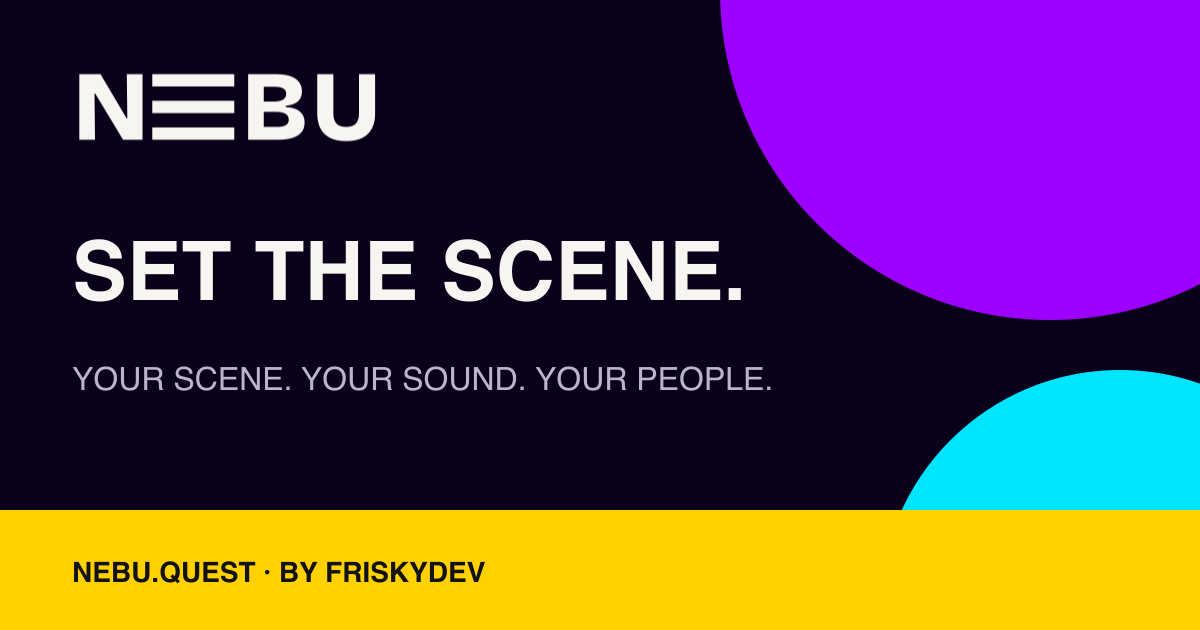
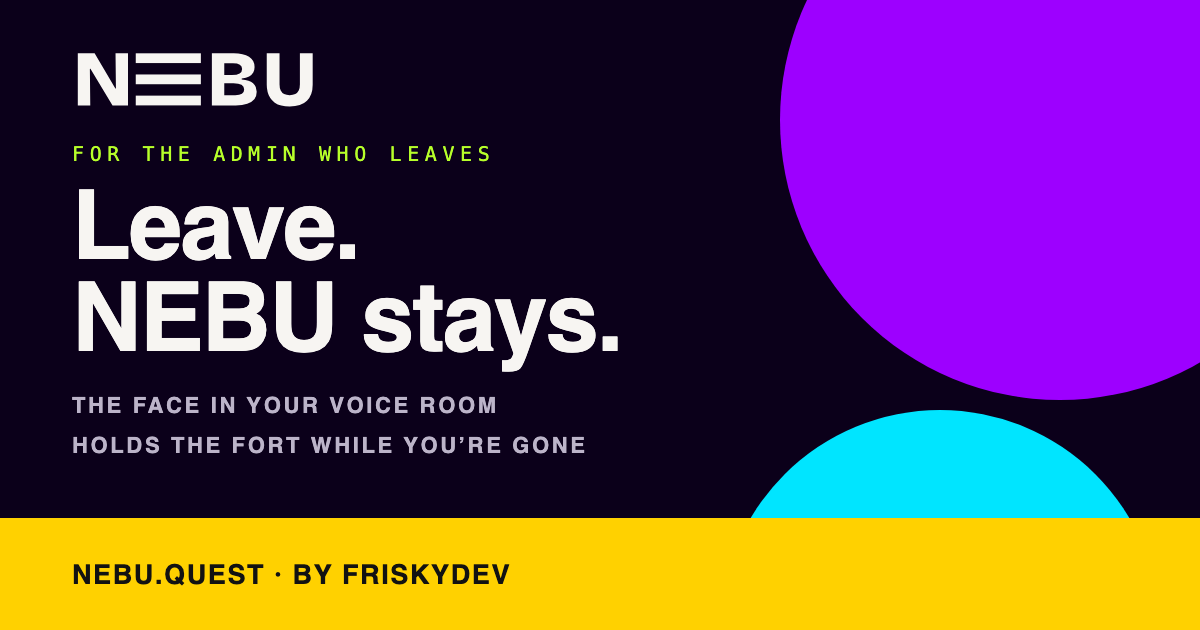
Positioning: Leave. NEBU stays. — ported onto program-stage base (#6)
* Positioning: Leave. NEBU stays. — ported onto program-stage base

Streamer is the showcase, buyer is the admin who leaves.
Hero/meta/nav/tabs Face-Lineup-Door-Recap, use-cases,
Prepare→Leave→Recap, 2 new FAQs, closing; social card refreshed.
Keeps /studio/ no-sign-in architecture; zero vc.friskydev refs.
verify.sh 16/16, hero eyeballed desktop+mobile.

* fix: align landing section labels and clarify downloading recordings before closing the studio

* Match section labels to the nav and the recording FAQ.

The room and Who it's for now name the feature and use-case landmarks, and the teacher/podcaster card says to download the take before closing the studio.

---------

diff --git a/sections.html b/sections.html
@@ -15,52 +15,52 @@
   <symbol id="layers" viewBox="0 0 32 32"><path d="m16 4 13 7-13 7L3 11 16 4ZM3 17l13 7 13-7M3 23l13 7 13-7"/></symbol>
 </defs></svg>
 
-<div class="signal-strip" aria-hidden="true"><div class="marquee"><div class="marquee-track"><div class="marquee-group"><span>YOUR CAMERA</span><svg><use href="#star"/></svg><span>YOUR MUSIC</span><svg><use href="#star"/></svg><span>YOUR ROOM</span><svg><use href="#star"/></svg><span>YOUR NEBU</span><svg><use href="#star"/></svg></div><div class="marquee-group"><span>YOUR CAMERA</span><svg><use href="#star"/></svg><span>YOUR MUSIC</span><svg><use href="#star"/></svg><span>YOUR ROOM</span><svg><use href="#star"/></svg><span>YOUR NEBU</span><svg><use href="#star"/></svg></div></div></div></div>
+<div class="signal-strip" aria-hidden="true"><div class="marquee"><div class="marquee-track"><div class="marquee-group"><span>LEAVE. NEBU STAYS</span><svg><use href="#star"/></svg><span>THE FACE IN THE ROOM</span><svg><use href="#star"/></svg><span>VIDEOS KEEP PLAYING</span><svg><use href="#star"/></svg><span>INVITES KEEP WORKING</span><svg><use href="#star"/></svg></div><div class="marquee-group"><span>LEAVE. NEBU STAYS</span><svg><use href="#star"/></svg><span>THE FACE IN THE ROOM</span><svg><use href="#star"/></svg><span>VIDEOS KEEP PLAYING</span><svg><use href="#star"/></svg><span>INVITES KEEP WORKING</span><svg><use href="#star"/></svg></div></div></div></div>
 
 <section class="studio-section section container" id="features" aria-labelledby="features-title">
-  <div class="section-heading"><div><p class="eyebrow">01 / MEET YOUR STUDIO</p><h2 id="features-title">All the parts.<br><span class="muted-heading">One place to play.</span></h2></div><p>Bring your picture, sound and people together. Check your scene before you share it.</p></div>
+  <div class="section-heading"><div><p class="eyebrow">01 / WHAT NEBU HOLDS</p><h2 id="features-title">Leave.<br><span class="muted-heading">NEBU stays.</span></h2></div><p>Admin installs in two minutes and can walk away. NEBU holds the room, runs the video lineup, keeps invites working, and records.</p></div>
   <div class="feature-tabs" role="tablist" aria-label="Explore the studio">
-    <button class="feature-tab tab-yellow" id="tab-picture" type="button" role="tab" aria-selected="true" aria-controls="feature-panel" data-feature="picture"><svg aria-hidden="true"><use href="#camera"/></svg><span>Studio<small>Find your frame.</small></span><svg class="tab-arrow" aria-hidden="true"><use href="#external"/></svg></button>
-    <button class="feature-tab tab-violet" id="tab-sound" type="button" role="tab" aria-selected="false" aria-controls="feature-panel" tabindex="-1" data-feature="sound"><svg aria-hidden="true"><use href="#sound"/></svg><span>Sound<small>Set the mood.</small></span><svg class="tab-arrow" aria-hidden="true"><use href="#external"/></svg></button>
-    <button class="feature-tab tab-cyan" id="tab-people" type="button" role="tab" aria-selected="false" aria-controls="feature-panel" tabindex="-1" data-feature="people"><svg aria-hidden="true"><use href="#people"/></svg><span>Rooms<small>Bring people in.</small></span><svg class="tab-arrow" aria-hidden="true"><use href="#external"/></svg></button>
-    <button class="feature-tab tab-paper" id="tab-record" type="button" role="tab" aria-selected="false" aria-controls="feature-panel" tabindex="-1" data-feature="record"><svg aria-hidden="true"><use href="#record"/></svg><span>Record<small>Keep the good bits.</small></span><svg class="tab-arrow" aria-hidden="true"><use href="#external"/></svg></button>
+    <button class="feature-tab tab-yellow" id="tab-picture" type="button" role="tab" aria-selected="true" aria-controls="feature-panel" data-feature="picture"><svg aria-hidden="true"><use href="#camera"/></svg><span>Face<small>Be the showcase.</small></span><svg class="tab-arrow" aria-hidden="true"><use href="#external"/></svg></button>
+    <button class="feature-tab tab-violet" id="tab-sound" type="button" role="tab" aria-selected="false" aria-controls="feature-panel" tabindex="-1" data-feature="sound"><svg aria-hidden="true"><use href="#sound"/></svg><span>Lineup<small>Runs while you are out.</small></span><svg class="tab-arrow" aria-hidden="true"><use href="#external"/></svg></button>
+    <button class="feature-tab tab-cyan" id="tab-people" type="button" role="tab" aria-selected="false" aria-controls="feature-panel" tabindex="-1" data-feature="people"><svg aria-hidden="true"><use href="#people"/></svg><span>Door<small>Stays open.</small></span><svg class="tab-arrow" aria-hidden="true"><use href="#external"/></svg></button>
+    <button class="feature-tab tab-paper" id="tab-record" type="button" role="tab" aria-selected="false" aria-controls="feature-panel" tabindex="-1" data-feature="record"><svg aria-hidden="true"><use href="#record"/></svg><span>Recap<small>Come back to it.</small></span><svg class="tab-arrow" aria-hidden="true"><use href="#external"/></svg></button>
   </div>
 
   <div class="feature-panel" id="feature-panel" role="tabpanel" aria-labelledby="tab-picture" tabindex="0" data-mode="picture">
-    <div class="feature-copy"><p class="eyebrow" id="feature-kicker">PICTURE / FIND YOUR FRAME</p><h3 id="feature-title">You call<br>the shots.</h3><p id="feature-description">Choose your camera, share your screen, or line up a video. Preview your scene before it reaches the room.</p><ul class="feature-points" id="feature-points"><li>Camera and microphone setup</li><li>Screen sharing and video rundown</li><li>Local preview before sharing</li></ul><a class="text-link" href="/studio/" data-studio>Make it yours <svg class="icon" aria-hidden="true"><use href="#arrow"/></svg></a></div>
+    <div class="feature-copy"><p class="eyebrow" id="feature-kicker">FACE / THE SHOWCASE</p><h3 id="feature-title">The face<br>in the room.</h3><p id="feature-description">You are the showcase: camera, screen, or prepared video, previewed before it reaches the room. Set the scene once — it stays up when you step out.</p><ul class="feature-points" id="feature-points"><li>Camera, screen, or prepared video</li><li>Local preview before sharing</li><li>Shareable overlay via OBS or Boom</li></ul><a class="text-link" href="/studio/" data-studio>Make it yours <svg class="icon" aria-hidden="true"><use href="#arrow"/></svg></a></div>
     <div class="preview-shell">
       <div class="preview-top"><span><span class="tiny-dot"></span> NEBU / SCENE EXPLORER</span><span>ILLUSTRATED PREVIEW</span></div>
       <div class="preview-scene">
         <div class="preview-grid"></div>
-        <div class="preview-art"><span class="preview-disc"></span><svg class="preview-star" aria-hidden="true"><use href="#star"/></svg><img src="assets/nebu-mark-yellow.svg" alt="" width="180" height="144"><span class="preview-caption" id="preview-caption">YOUR POINT<br>OF VIEW.</span></div>
-        <div class="preview-sound" aria-hidden="true"><div class="equalizer"><i></i><i></i><i></i><i></i><i></i><i></i><i></i><i></i><i></i><i></i><i></i><i></i></div><span>FIND YOUR<br>FREQUENCY.</span></div>
+        <div class="preview-art"><span class="preview-disc"></span><svg class="preview-star" aria-hidden="true"><use href="#star"/></svg><img src="assets/nebu-mark-yellow.svg" alt="" width="180" height="144"><span class="preview-caption" id="preview-caption">THE FACE<br>IN THE ROOM.</span></div>
+        <div class="preview-sound" aria-hidden="true"><div class="equalizer"><i></i><i></i><i></i><i></i><i></i><i></i><i></i><i></i><i></i><i></i><i></i><i></i></div><span>PLAYING WHILE<br>YOU ARE OUT.</span></div>
         <div class="preview-people" aria-hidden="true"><span>N</span><span><svg><use href="#star"/></svg></span><span><svg><use href="#sound"/></svg></span><span>YOU</span></div>
-        <div class="preview-record" aria-hidden="true"><svg><use href="#record"/></svg><span>A MOMENT.<br>YOURS TO KEEP.</span></div>
-        <div class="preview-label" id="preview-label">01 — PICTURE</div>
+        <div class="preview-record" aria-hidden="true"><svg><use href="#record"/></svg><span>THE TAPE.<br>COME BACK TO IT.</span></div>
+        <div class="preview-label" id="preview-label">01 — FACE</div>
       </div>
-      <div class="preview-bottom"><span id="preview-bottom">Prepare → Preview → Share</span><svg class="icon" aria-hidden="true"><use href="#layers"/></svg></div>
+      <div class="preview-bottom"><span id="preview-bottom">Set the scene → Show your face</span><svg class="icon" aria-hidden="true"><use href="#layers"/></svg></div>
     </div>
   </div>
-  <noscript><div class="no-script-features"><p><strong>Sound:</strong> Adjust microphone and video volume independently.</p><p><strong>Rooms:</strong> Create a room, copy an invite, and bring a small group together.</p><p><strong>Record:</strong> Capture your selected output and download the recording to your device.</p></div></noscript>
+  <noscript><div class="no-script-features"><p><strong>Lineup:</strong> Queue prepared videos and balance microphone against playback.</p><p><strong>Door:</strong> Open a room, share one invite, and let new people join while you are out.</p><p><strong>Recap:</strong> Record your selected output and download the tape to your device.</p></div></noscript>
 </section>
 
 <section class="your-scene section" id="steps" aria-labelledby="steps-title"><div class="container">
-  <div class="section-heading"><div><p class="eyebrow">02 / YOUR KIND OF LIVE</p><h2 id="steps-title">Make room<br>for your thing.</h2></div><p>A conversation worth having.<br>A video worth sharing.<br>A moment worth keeping.</p></div>
+  <div class="section-heading"><div><p class="eyebrow">02 / BUILT FOR THE ADMIN WHO LEAVES</p><h2 id="steps-title">Set it up.<br>Step out.</h2></div><p>One person holds the group. Zero desire to babysit it.<br>Two minutes to install — then the room runs itself.</p></div>
   <div class="use-cases">
-    <article class="use-case" data-reveal><div class="use-art conversation-art" aria-hidden="true"><span class="bubble bubble-one">hey, you.</span><span class="bubble bubble-two">let’s talk.</span><svg><use href="#star"/></svg></div><div class="use-copy"><span class="eyebrow">FOR THE CONVERSATIONS</span><h3>A room with<br>your people.</h3><p>Get a small group together. Share an invitation and give the conversation a place to happen.</p></div></article>
-    <article class="use-case" data-reveal><div class="use-art creative-art" aria-hidden="true"><div class="video-tile"><svg><use href="#camera"/></svg><span>YOUR TAKE</span></div><span class="creative-label">THAT’S THE ONE.</span></div><div class="use-copy"><span class="eyebrow">FOR THE THINGS YOU MAKE</span><h3>Give your ideas<br>some airtime.</h3><p>Walk through your work, line up a video, and show the room what you have in mind.</p></div></article>
-    <article class="use-case" data-reveal><div class="use-art recording-art" aria-hidden="true"><div class="record-circle"><svg><use href="#record"/></svg></div><span class="record-label">SAVE THIS FEELING</span><div class="tape-marks"></div></div><div class="use-copy"><span class="eyebrow">FOR THE GOOD MOMENTS</span><h3>Make it once.<br>Keep it close.</h3><p>Record the output you choose and save a copy on your device. Something to come back to.</p></div></article>
+    <article class="use-case" data-reveal><div class="use-art conversation-art" aria-hidden="true"><span class="bubble bubble-one">see you later.</span><span class="bubble bubble-two">nebu's got it.</span><svg><use href="#star"/></svg></div><div class="use-copy"><span class="eyebrow">FOR THE ADMIN WHO LEAVES</span><h3>Your group.<br>Held, not policed.</h3><p>You run a Telegram, Discord, or class group and you do not want to be the policeman. NEBU keeps the door open, basic order in place, and the night on record.</p></div></article>
+    <article class="use-case" data-reveal><div class="use-art creative-art" aria-hidden="true"><div class="video-tile"><svg><use href="#camera"/></svg><span>YOUR TAKE</span></div><span class="creative-label">FACE IN THE ROOM.</span></div><div class="use-copy"><span class="eyebrow">FOR THE STREAMER</span><h3>The showcase<br>with your face.</h3><p>Camera up, overlay on, videos queued. You are the vitrina — the visible one everyone gathers around, even when the admin is long gone.</p></div></article>
+    <article class="use-case" data-reveal><div class="use-art recording-art" aria-hidden="true"><div class="record-circle"><svg><use href="#record"/></svg></div><span class="record-label">THE TAPE YOU REVISIT</span><div class="tape-marks"></div></div><div class="use-copy"><span class="eyebrow">FOR THE TEACHER AND THE PODCASTER</span><h3>Class dismissed.<br>Episode kept.</h3><p>Teach the lesson or record the episode, then download the take before closing the studio. Revisit the class or edit the episode later.</p></div></article>
   </div>
 </div></section>
 
 <section class="workflow-section section container" aria-labelledby="workflow-title">
-  <div class="section-heading"><div><p class="eyebrow">03 / FROM IDEA TO SCENE</p><h2 id="workflow-title">Get into<br>your element.</h2></div><a class="button button-outline" href="/studio/" data-studio>Let’s make something <svg class="icon" aria-hidden="true"><use href="#arrow"/></svg></a></div>
+  <div class="section-heading"><div><p class="eyebrow">03 / HOW THE NIGHT GOES</p><h2 id="workflow-title">Prepare.<br>Leave. Recap.</h2></div><a class="button button-outline" href="/studio/" data-studio>Hold my room <svg class="icon" aria-hidden="true"><use href="#arrow"/></svg></a></div>
   <figure class="product-shot program-monitor" data-reveal>
-    <div class="shot-bar"><span class="tally-mini"><i></i> PROGRAM</span><span>NEBU / IN THE STUDIO</span><span>1280×720 · 30</span><span>PICTURE · SOUND · PEOPLE</span></div>
+    <div class="shot-bar"><span class="tally-mini"><i></i> PROGRAM</span><span>NEBU / HOLDING THE ROOM</span><span>1280×720 · 30</span><span>FACE · LINEUP · DOOR</span></div>
     <img src="assets/studio-shot.webp" width="1440" height="900" loading="lazy" decoding="async" alt="The NEBU studio in a browser: sources on the left, the program output in the middle with a shared page and a camera picture-in-picture plus a lower third, and the audio mixer and room controls on the right.">
     <figcaption><span>The real studio, captured in a browser with test sources.</span><a href="/studio/" data-studio>Open the studio <svg class="icon" aria-hidden="true"><use href="#arrow"/></svg></a></figcaption>
   </figure>
-  <div class="workflow"><article data-reveal><span>01</span><h3>Prepare.</h3><p>Open the studio. Choose your camera, microphone and sources.</p></article><article data-reveal><span>02</span><h3>Preview.</h3><p>Find the frame. Balance the sound. Check what you’re about to share.</p></article><article data-reveal><span>03</span><h3>Share.</h3><p>Open your room, invite your people, or record a take for later.</p></article></div>
+  <div class="workflow"><article data-reveal><span>01</span><h3>Prepare.</h3><p>Open the studio. Set the scene, queue the videos, share one invite link. Two minutes, tops.</p></article><article data-reveal><span>02</span><h3>Leave.</h3><p>Walk away. The lineup keeps playing, the door stays open, basic order holds.</p></article><article data-reveal><span>03</span><h3>Recap.</h3><p>Come back to the tape. Download the recording and see what the room got up to.</p></article></div>
 </section>
 
 <section class="faq-section section container" id="faq" data-reveal aria-labelledby="faq-title"><div class="faq-heading"><p class="eyebrow">04 / GOOD TO KNOW</p><h2 id="faq-title">Before you<br>jump in.</h2><svg class="faq-star" aria-hidden="true"><use href="#star"/></svg></div><div class="faq-list">
@@ -68,11 +68,13 @@
   <details><summary>Do I need to install anything?<span aria-hidden="true">+</span></summary><div><p>No. Open the studio in a current Chrome, Edge, Firefox or Safari and allow camera and microphone when asked. Screen sharing needs a desktop browser; on a phone you can still use your camera, mic and video files. OBS and Boom are optional and use their own software.</p></div></details>
   <details><summary>Where does “Open studio” take me?<span aria-hidden="true">+</span></summary><div><p>To <a href="/studio/">nebu.quest/studio</a>, right here. No account and no sign-in. Your sources, your mix and your recordings stay in your browser tab.</p></div></details>
   <details><summary>Can I check my scene before sharing?<span aria-hidden="true">+</span></summary><div><p>Yes. The program preview is local until you open a room. What you see there is exactly what your room receives and what a recording captures.</p></div></details>
+  <details><summary>What happens when I leave?<span aria-hidden="true">+</span></summary><div><p>The room keeps running: your queued videos keep playing, your invite link keeps letting people in, and basic room order (mute, kick) stays in your hands from wherever you are. Record the output before you go and you will come back to the tape.</p></div></details>
+  <details><summary>Is this only for streamers?<span aria-hidden="true">+</span></summary><div><p>No. The streamer is the showcase — the face everyone gathers around. But NEBU is built for the admin who leaves: anyone with a Telegram, Discord, or class group who wants the room held without babysitting it. Teachers and podcasters use the same setup to record and revisit later.</p></div></details>
   <details><summary>Can I invite people and record?<span aria-hidden="true">+</span></summary><div><p>Open a room and send the link: up to four people join from their browsers. Audio and video travel browser to browser. A small signaling service only introduces the browsers, and a Cloudflare relay steps in when a network blocks a direct path. Recording captures the program with the full mix, room included. Let everyone know before you record a shared session.</p></div></details>
   <details><summary>Where do my recordings go?<span aria-hidden="true">+</span></summary><div><p>Straight to your device as a WebM file (MP4 in Safari). Nothing is uploaded and nothing is kept on a server. Takes live in the tab until you download or discard them, so save the ones you want before you close it.</p></div></details>
 </div></section>
 
-<section class="closing" data-reveal data-mount="before-live-room" aria-labelledby="closing-title"><div class="container closing-inner"><div><p class="eyebrow">YOU’VE GOT SOMETHING. LET IT OUT.</p><h2 id="closing-title">Your next scene<br>starts here.</h2><a class="button button-ink" href="/studio/" data-studio>Open your studio <svg class="icon" aria-hidden="true"><use href="#arrow"/></svg></a></div><div class="closing-mark" aria-hidden="true"><i></i><i></i><i></i></div></div></section>
+<section class="closing" data-reveal data-mount="before-live-room" aria-labelledby="closing-title"><div class="container closing-inner"><div><p class="eyebrow">BUILT FOR THE ADMIN WHO LEAVES</p><h2 id="closing-title">Walk away.<br>Come back to the recap.</h2><a class="button button-ink" href="/studio/" data-studio>Hold my room <svg class="icon" aria-hidden="true"><use href="#arrow"/></svg></a></div><div class="closing-mark" aria-hidden="true"><i></i><i></i><i></i></div></div></section>
 
 <section class="onair-band section" id="onair" aria-labelledby="onair-title">
   <div class="container">

diff --git a/index.html b/index.html
@@ -4,21 +4,21 @@
   <meta charset="utf-8">
   <meta name="viewport" content="width=device-width, initial-scale=1">
   <meta name="theme-color" content="#0B001A">
-  <title>NEBU — Set the scene.</title>
-  <meta name="description" content="Your scene. Your sound. Your people. Prepare camera, screen and video, balance your audio, and bring people into your browser studio with NEBU.">
+  <title>NEBU — Leave. NEBU stays.</title>
+  <meta name="description" content="NEBU is the face in your voice room that holds the fort: runs your video lineup, keeps invites working, keeps basic order, and records. Install in two minutes, walk away, come back to the recap.">
   <link rel="canonical" href="https://nebu.quest/">
   <meta property="og:type" content="website">
   <meta property="og:site_name" content="NEBU">
-  <meta property="og:title" content="NEBU — Set the scene.">
-  <meta property="og:description" content="Your scene. Your sound. Your people. A browser studio for the things you want to put out into the world.">
+  <meta property="og:title" content="NEBU — Leave. NEBU stays.">
+  <meta property="og:description" content="Leave. NEBU stays. The face in your voice room that runs the videos, keeps the door open, keeps order, and records.">
   <meta property="og:url" content="https://nebu.quest/">
   <meta property="og:image" content="https://nebu.quest/assets/nebu-social.png">
   <meta property="og:image:width" content="1200">
   <meta property="og:image:height" content="630">
-  <meta property="og:image:alt" content="NEBU. Set the scene. Your scene. Your sound. Your people.">
+  <meta property="og:image:alt" content="NEBU. Leave. NEBU stays. The face in your voice room.">
   <meta name="twitter:card" content="summary_large_image">
-  <meta name="twitter:title" content="NEBU — Set the scene.">
-  <meta name="twitter:description" content="Your scene. Your sound. Your people. Your browser studio.">
+  <meta name="twitter:title" content="NEBU — Leave. NEBU stays.">
+  <meta name="twitter:description" content="Leave. NEBU stays. The face in your voice room that holds the fort.">
   <meta name="twitter:image" content="https://nebu.quest/assets/nebu-social.png">
   <link rel="icon" type="image/svg+xml" href="assets/nebu-icon.svg">
   <link rel="preconnect" href="https://fonts.googleapis.com">
@@ -26,7 +26,7 @@
   <link rel="preconnect" href="https://fonts.gstatic.com" crossorigin>
   <link href="https://fonts.googleapis.com/css2?family=Bricolage+Grotesque:opsz,wght@12..96,200..800&family=Manrope:wght@400..800&display=swap" rel="stylesheet">
   <link rel="stylesheet" href="styles.css">
-  <script type="application/ld+json">{"@context":"https://schema.org","@type":"WebSite","name":"NEBU","url":"https://nebu.quest/","description":"A browser studio for camera, screen, video, sound and rooms.","publisher":{"@type":"Organization","name":"FriskyDev","url":"https://friskydev.com"}}</script>
+  <script type="application/ld+json">{"@context":"https://schema.org","@type":"WebSite","name":"NEBU","url":"https://nebu.quest/","description":"The face in your voice room that holds the fort: runs your video lineup, keeps invites working, keeps order, and records.","publisher":{"@type":"Organization","name":"FriskyDev","url":"https://friskydev.com"}}</script>
 </head>
 <body>
   <a class="skip-link" href="#main">Skip to content</a>
@@ -59,8 +59,8 @@
       <p class="nav-meta" aria-hidden="true"><span class="tally-mini"><i></i> PROGRAM</span><time data-nav-clock>00:00:00</time></p>
       <button class="menu-toggle" type="button" aria-controls="navigation" aria-expanded="false"><span>Menu</span><svg class="menu-dots" width="14" height="14" viewBox="0 0 14 14" aria-hidden="true" fill="currentColor"><circle cx="3" cy="3" r="1.6"/><circle cx="11" cy="3" r="1.6"/><circle cx="3" cy="11" r="1.6"/><circle cx="11" cy="11" r="1.6"/></svg></button>
       <nav id="navigation" aria-label="Main navigation">
-        <a href="#features">The studio</a>
-        <a href="#steps">Your kind of live</a>
+        <a href="#features">The room</a>
+        <a href="#steps">Who it's for</a>
         <a href="#faq">Good to know</a>
         <a class="button button-yellow nav-cta" href="/studio/" data-studio data-magnetic>Open studio <svg class="icon" aria-hidden="true"><use href="#arrow"/></svg></a>
       </nav>
@@ -89,18 +89,19 @@
           <span class="sticker sticker-room">ROOM</span>
           <span class="sticker sticker-rec">RECORD</span>
         </div>
-        <p class="eyebrow hero-kicker"><span class="status-dot" aria-hidden="true"></span> YOUR BROWSER. YOUR STAGE.</p>
+        <p class="eyebrow hero-kicker"><span class="status-dot" aria-hidden="true"></span> FOR THE ADMIN WHO LEAVES</p>
         <h1 id="hero-title">
-          <span class="hero-line" data-split>Set the</span>
-          <span class="hero-line" data-split>scene.</span>
+          <span class="hero-line" data-split>Leave.</span>
+          <span class="hero-line" data-split>NEBU stays.</span>
           <svg class="title-star" aria-hidden="true"><use href="#star"/></svg>
         </h1>
         <div class="hero-copy">
-          <p class="hero-description">Your scene. Your sound. Your people. A browser studio for the things you want to put out into the world.</p>
+          <p class="hero-description">The face in your voice room that holds the fort: runs your video lineup, keeps the door open, keeps basic order, and records — so you can walk away and come back to the recap.</p>
           <div class="hero-actions">
             <a class="button button-yellow" href="/studio/" data-studio data-magnetic>Open your studio <svg class="icon" aria-hidden="true"><use href="#arrow"/></svg></a>
             <a class="text-link" href="#features" data-magnetic>Take a look around <svg class="icon" aria-hidden="true"><use href="#arrow"/></svg></a>
           </div>
+          <p class="hero-note">Streamers show it off. Admins walk away. Set up in two minutes.</p>
         </div>
         <p class="scene-hud mono" aria-hidden="true">LIVE SCENE — PULL THE FIELD · DRAG TO ORBIT · S OPENS STUDIO</p>
       </div>
@@ -108,9 +109,9 @@
 
     <div class="signal-strip" aria-hidden="true"><!-- TRACK 2/4: signal-strip content mounts here --></div>
 
-    <section id="features" aria-label="The studio"><!-- TRACK 4: features content mounts here --></section>
+    <section id="features" aria-label="The room"><!-- TRACK 4: features content mounts here --></section>
 
-    <section id="steps" aria-label="Your kind of live"><!-- TRACK 4: steps content mounts here --></section>
+    <section id="steps" aria-label="Who it's for"><!-- TRACK 4: steps content mounts here --></section>
 
     <section id="faq" aria-label="Good to know"><!-- TRACK 4: faq content mounts here --></section>
 
@@ -131,8 +132,8 @@
     </section>
   </main>
 
-  <footer class="footer container"><div class="footer-brand"><a href="#" aria-label="NEBU home"><img src="assets/nebu-wordmark-paper.svg" width="148" height="34" alt="NEBU"></a><p>Set the scene.</p></div><div class="footer-links"><a href="/studio/" data-studio>Open studio <svg class="icon" aria-hidden="true"><use href="#arrow"/></svg></a><a href="brand/NEBU-Brandbook.pdf">Brandbook <span class="file-type">PDF</span></a><a href="https://friskydev.com/">By FriskyDev <svg class="icon" aria-hidden="true"><use href="#external"/></svg></a></div><div class="footer-bottom"><span>© 2026 NEBU · by FriskyDev</span><span>nebu.quest</span></div></footer>
-  <noscript><p style="padding:24px;text-align:center">NEBU is a browser studio. Enable JavaScript to browse the sections, or <a href="/studio/">open your studio</a> (the studio itself needs JavaScript).</p></noscript>
+  <footer class="footer container"><div class="footer-brand"><a href="#" aria-label="NEBU home"><img src="assets/nebu-wordmark-paper.svg" width="148" height="34" alt="NEBU"></a><p>Leave. NEBU stays.</p></div><div class="footer-links"><a href="/studio/" data-studio>Open studio <svg class="icon" aria-hidden="true"><use href="#arrow"/></svg></a><a href="brand/NEBU-Brandbook.pdf">Brandbook <span class="file-type">PDF</span></a><a href="https://friskydev.com/">By FriskyDev <svg class="icon" aria-hidden="true"><use href="#external"/></svg></a></div><div class="footer-bottom"><span>© 2026 NEBU · by FriskyDev</span><span>nebu.quest</span></div></footer>
+  <noscript><p style="padding:24px;text-align:center">NEBU holds your voice room while you're gone. Enable JavaScript to browse the sections, or <a href="/studio/">open your studio</a> (the studio itself needs JavaScript).</p></noscript>
   <script src="scene.js" defer></script>
   <script src="app.js" defer></script>
   <script src="obs.js" defer></script>

diff --git a/app.js b/app.js
@@ -4,8 +4,8 @@
  *   <main id="main">
  *     ... hero ...
  *     <div class="signal-strip" aria-hidden="true"><!-- mount --></div>
- *     <section id="features" aria-label="The studio"><!-- mount --></section>
- *     <section id="steps" aria-label="Your kind of live"><!-- mount --></section>
+ *     <section id="features" aria-label="The room"><!-- mount --></section>
+ *     <section id="steps" aria-label="Who it's for"><!-- mount --></section>
  *     <section id="faq" aria-label="Good to know"><!-- mount --></section>
  *   </main>
  *   <footer><!-- mount --></footer>
@@ -36,36 +36,36 @@
 
   const FEATURES = {
     picture: {
-      kicker: 'PICTURE / FIND YOUR FRAME',
-      title: 'You call\nthe shots.',
-      description: 'Choose your camera, share your screen, or line up a video. Preview your scene before it reaches the room.',
-      points: ['Camera and microphone setup', 'Screen sharing and video rundown', 'Local preview before sharing'],
-      label: '01 — PICTURE',
-      bottom: 'Prepare → Preview → Share'
+      kicker: 'FACE / THE SHOWCASE',
+      title: 'The face\nin the room.',
+      description: 'You are the showcase: camera, screen, or prepared video, previewed before it reaches the room. Set the scene once — it stays up when you step out.',
+      points: ['Camera, screen, or prepared video', 'Local preview before sharing', 'Shareable overlay via OBS or Boom'],
+      label: '01 — FACE',
+      bottom: 'Set the scene → Show your face'
     },
     sound: {
-      kicker: 'SOUND / SET THE MOOD',
-      title: 'Find your\nfrequency.',
-      description: 'Keep your voice and your video in balance. Adjust their audio independently while you prepare your scene.',
-      points: ['Choose your microphone', 'Adjust microphone and video volume', 'Prepare audio before sharing'],
-      label: '02 — SOUND',
-      bottom: 'Your voice. Your video. Your mix.'
+      kicker: 'LINEUP / HOLD THE ROOM',
+      title: 'Press play.\nWalk away.',
+      description: 'Line up your videos and balance voice against playback before anyone arrives. The lineup keeps playing while you are gone — Spotify stays on its own device.',
+      points: ['Queue prepared videos in order', 'Balance microphone and video volume', 'The lineup runs while you are out'],
+      label: '02 — LINEUP',
+      bottom: 'Line it up → It keeps playing'
     },
     people: {
-      kicker: 'PEOPLE / MAKE SOME ROOM',
-      title: 'A link.\nYour people.',
-      description: 'Give your next conversation a place to happen. Open a room and invite a small group to join you.',
-      points: ['Create or join a video room', 'Copy and share a room invitation', 'Add the room to your calendar'],
-      label: '03 — PEOPLE',
-      bottom: 'Open a room → Share the invitation'
+      kicker: 'DOOR / STAYS OPEN',
+      title: 'One link.\nZero policing.',
+      description: 'Open a room and share one invite link — new people keep joining while you are gone. Basic room order (mute, kick) holds the line without you.',
+      points: ['Create a room, share one invite', 'New people join while you are out', 'Basic order: mute and kick'],
+      label: '03 — DOOR',
+      bottom: 'Open the room → Share the invite'
     },
     record: {
-      kicker: 'RECORD / KEEP THE GOOD BITS',
-      title: 'Worth making.\nWorth keeping.',
-      description: 'Capture the output you choose and save the recording to your device. A take to keep, revisit or share later.',
-      points: ['Record your selected output', 'Start and stop from the studio', 'Download to your device'],
-      label: '04 — RECORD',
-      bottom: 'Record → Download → Keep'
+      kicker: 'RECAP / COME BACK TO',
+      title: 'Leave.\nReplay later.',
+      description: 'Record the output you choose and download it to your device. No auto-written summaries — you come back to the tape itself and catch up fast.',
+      points: ['Record your selected output', 'Start and stop from the studio', 'Download and revisit the tape'],
+      label: '04 — RECAP',
+      bottom: 'Record → Download → Recap'
     }
   };
 
